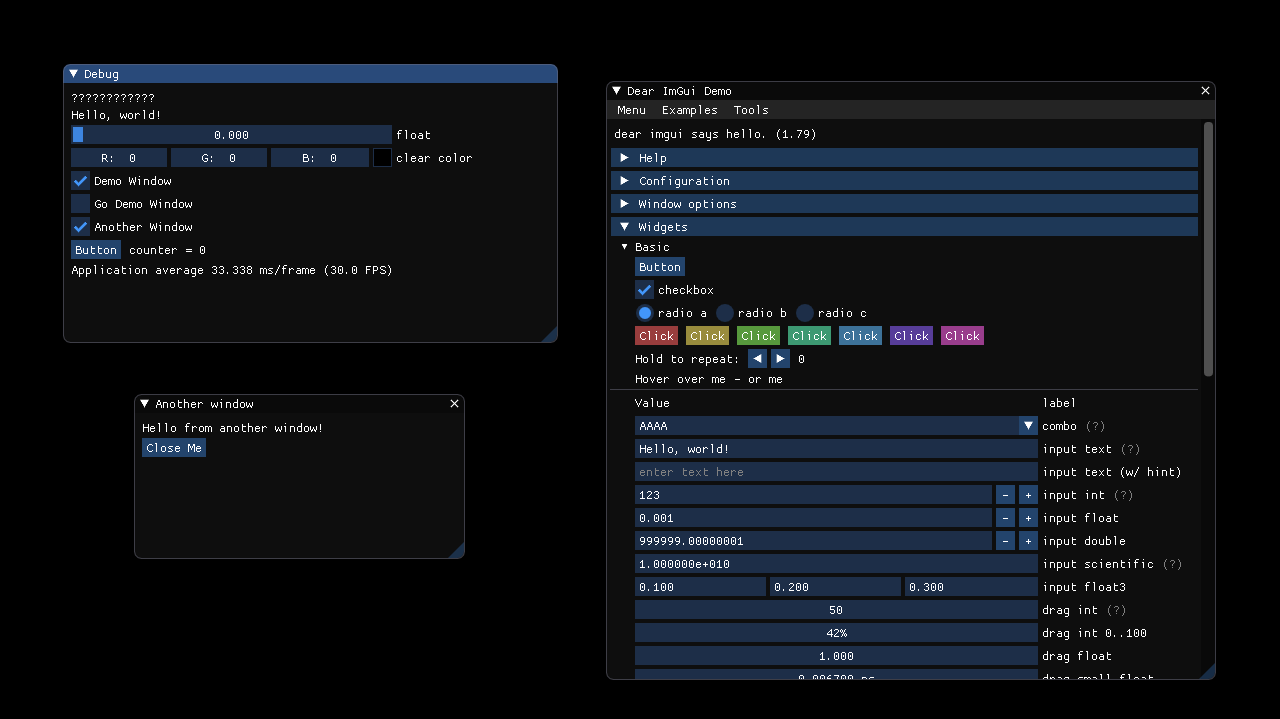
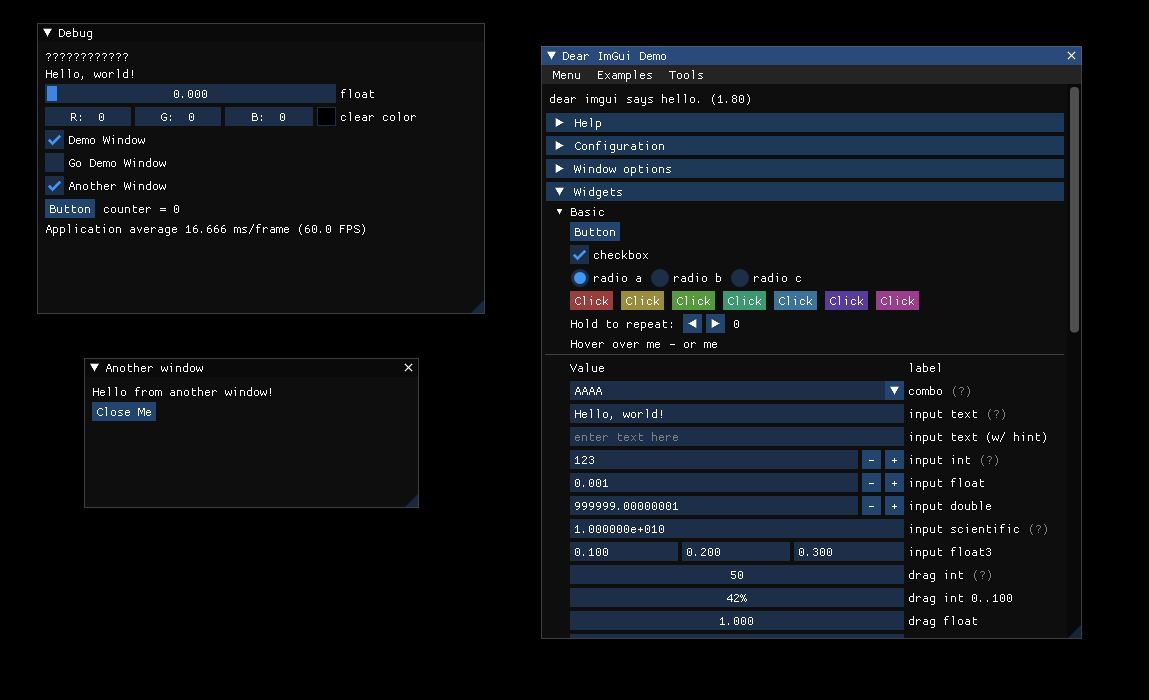
update README.md, Main_test.go and screenshot.png to reflect 1.80 version

diff --git a/Main_test.go b/Main_test.go
@@ -10,5 +10,5 @@ import (
 
 func TestVersion(t *testing.T) {
 	version := imgui.Version()
-	assert.Equal(t, "1.79", version)
+	assert.Equal(t, "1.80", version)
 }

diff --git a/README.md b/README.md
@@ -43,7 +43,7 @@ This library does not mirror the versions of the wrapped **Dear ImGui**. The sem
 * Minor changes: Extensions in API. Typically done through small version increments of **Dear ImGui** and/or exposing further features in a compatible way.
 * Patch changes: Bug fixes - either in the wrapper or the wrapped **Dear ImGui**, given that the API & behaviour remains the same.
 
-At the moment, this library uses version [1.79](https://github.com/ocornut/imgui/releases/tag/v1.79) of **Dear ImGui**.
+At the moment, this library uses version [1.80](https://github.com/ocornut/imgui/releases/tag/v1.80) of **Dear ImGui**.
 
 ## Examples
 A separate repository was created to host ported examples and reference implementations.
